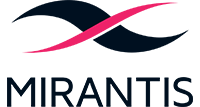
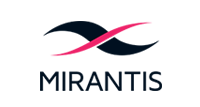
Shrinking it a bit more

diff --git a/site/companies/index.md b/site/companies/index.md
@@ -96,7 +96,7 @@ meta:
                 <img src="/images/companies/easystack-lg2.jpg" alt="EasyStack">
                 <img src="/images/companies/fiberhome-lg.jpg" alt="FiberHome">
                 <img src="/images/companies/inspur-lg.jpg" alt="Inspur">
-                <img src="/images/companies/mirantis-2020-resize-sm.png" alt="Mirantis">
+                <img src="/images/companies/mirantis-2020-sm.png" alt="Mirantis">
                 <img src="/images/companies/nec-headline-large.png" alt="NEC">
                 <img src="/images/companies/troila-new-sm.jpg" alt="Troila">
                 <img src="/images/companies/H3C-lg.jpg" alt="New H3C Technologies Co., Limited">
